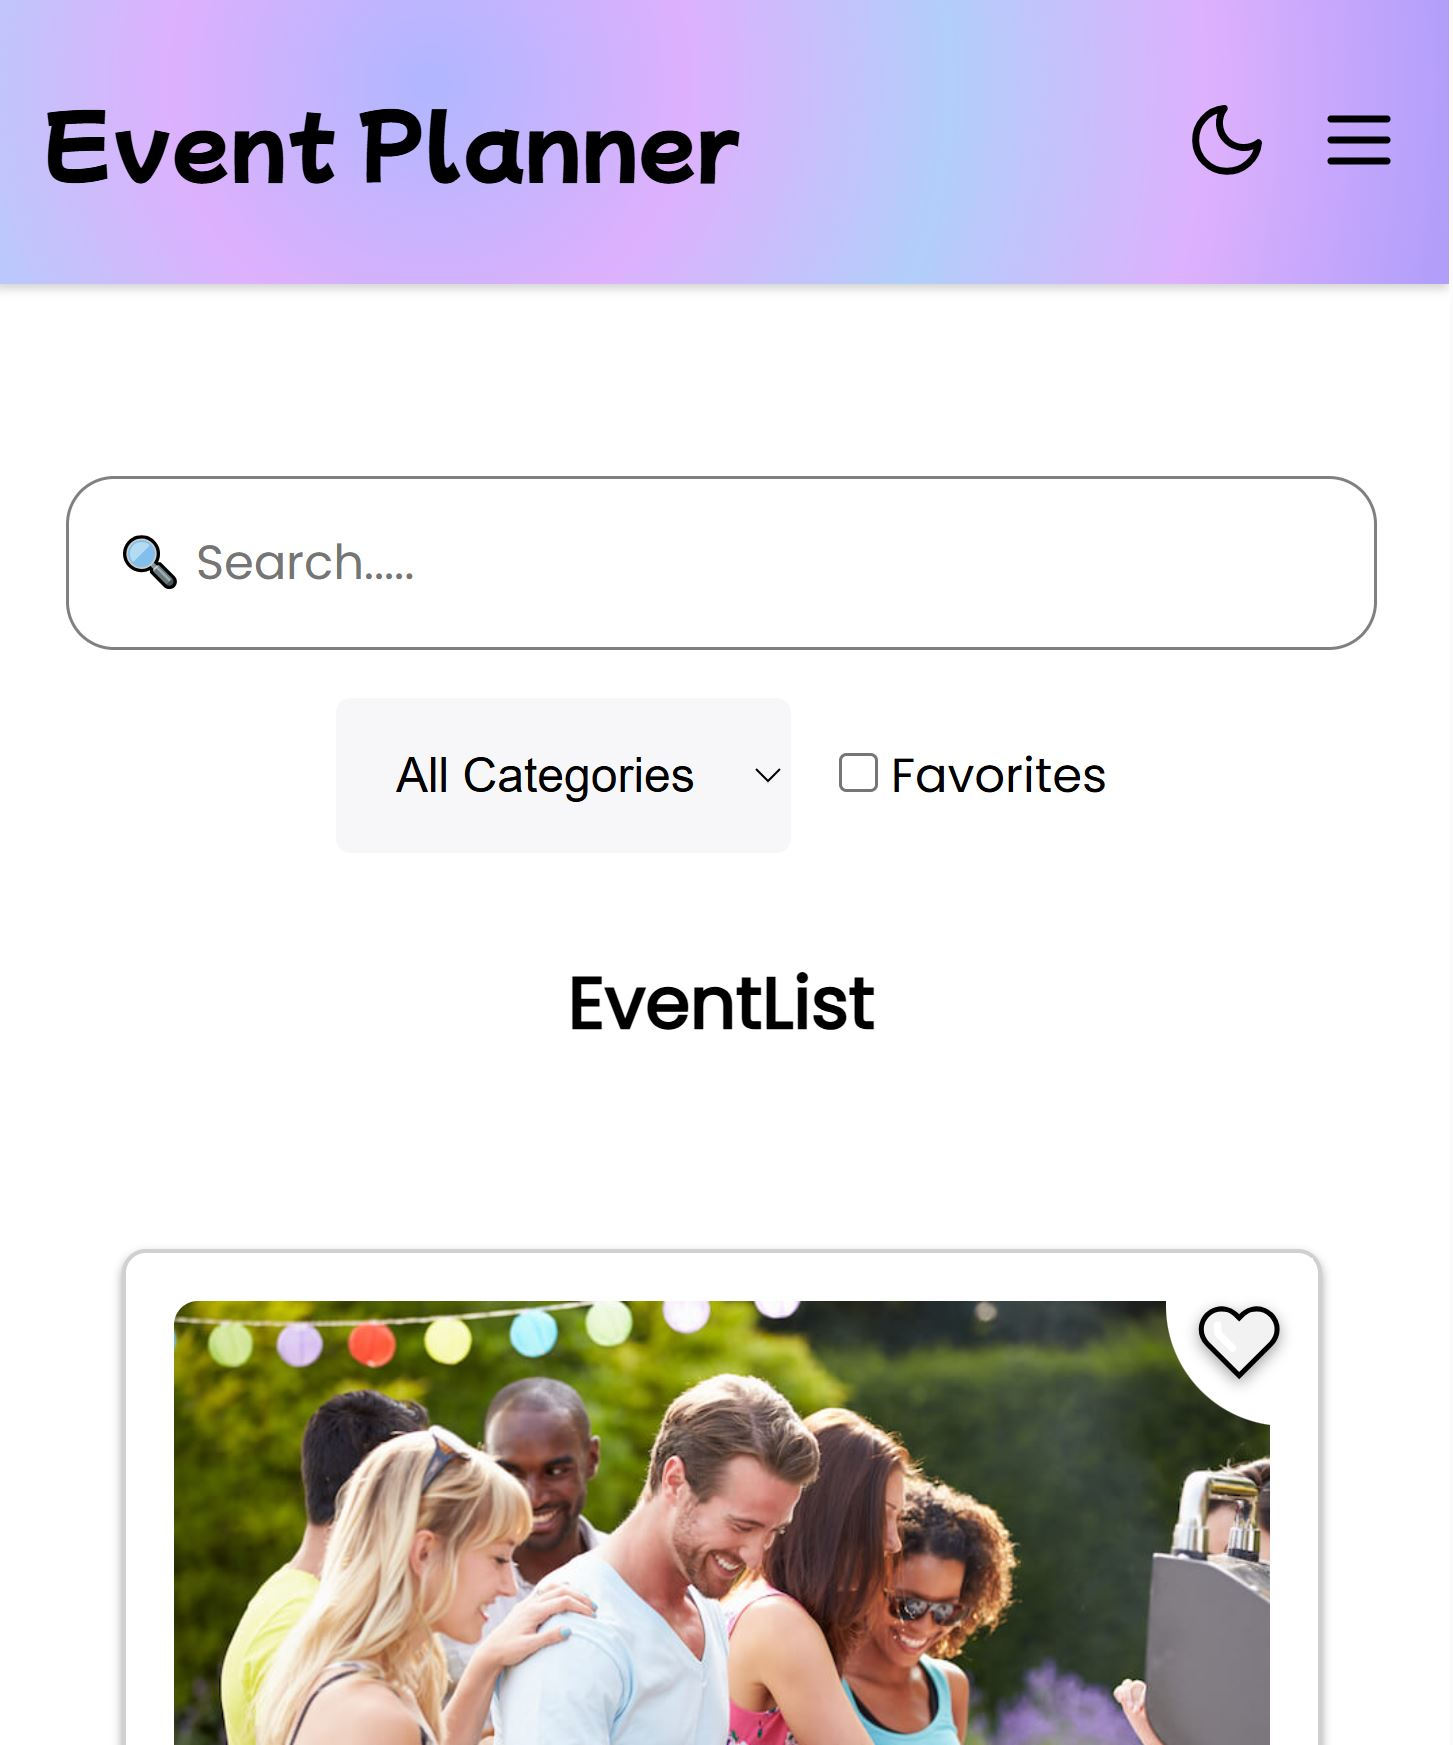
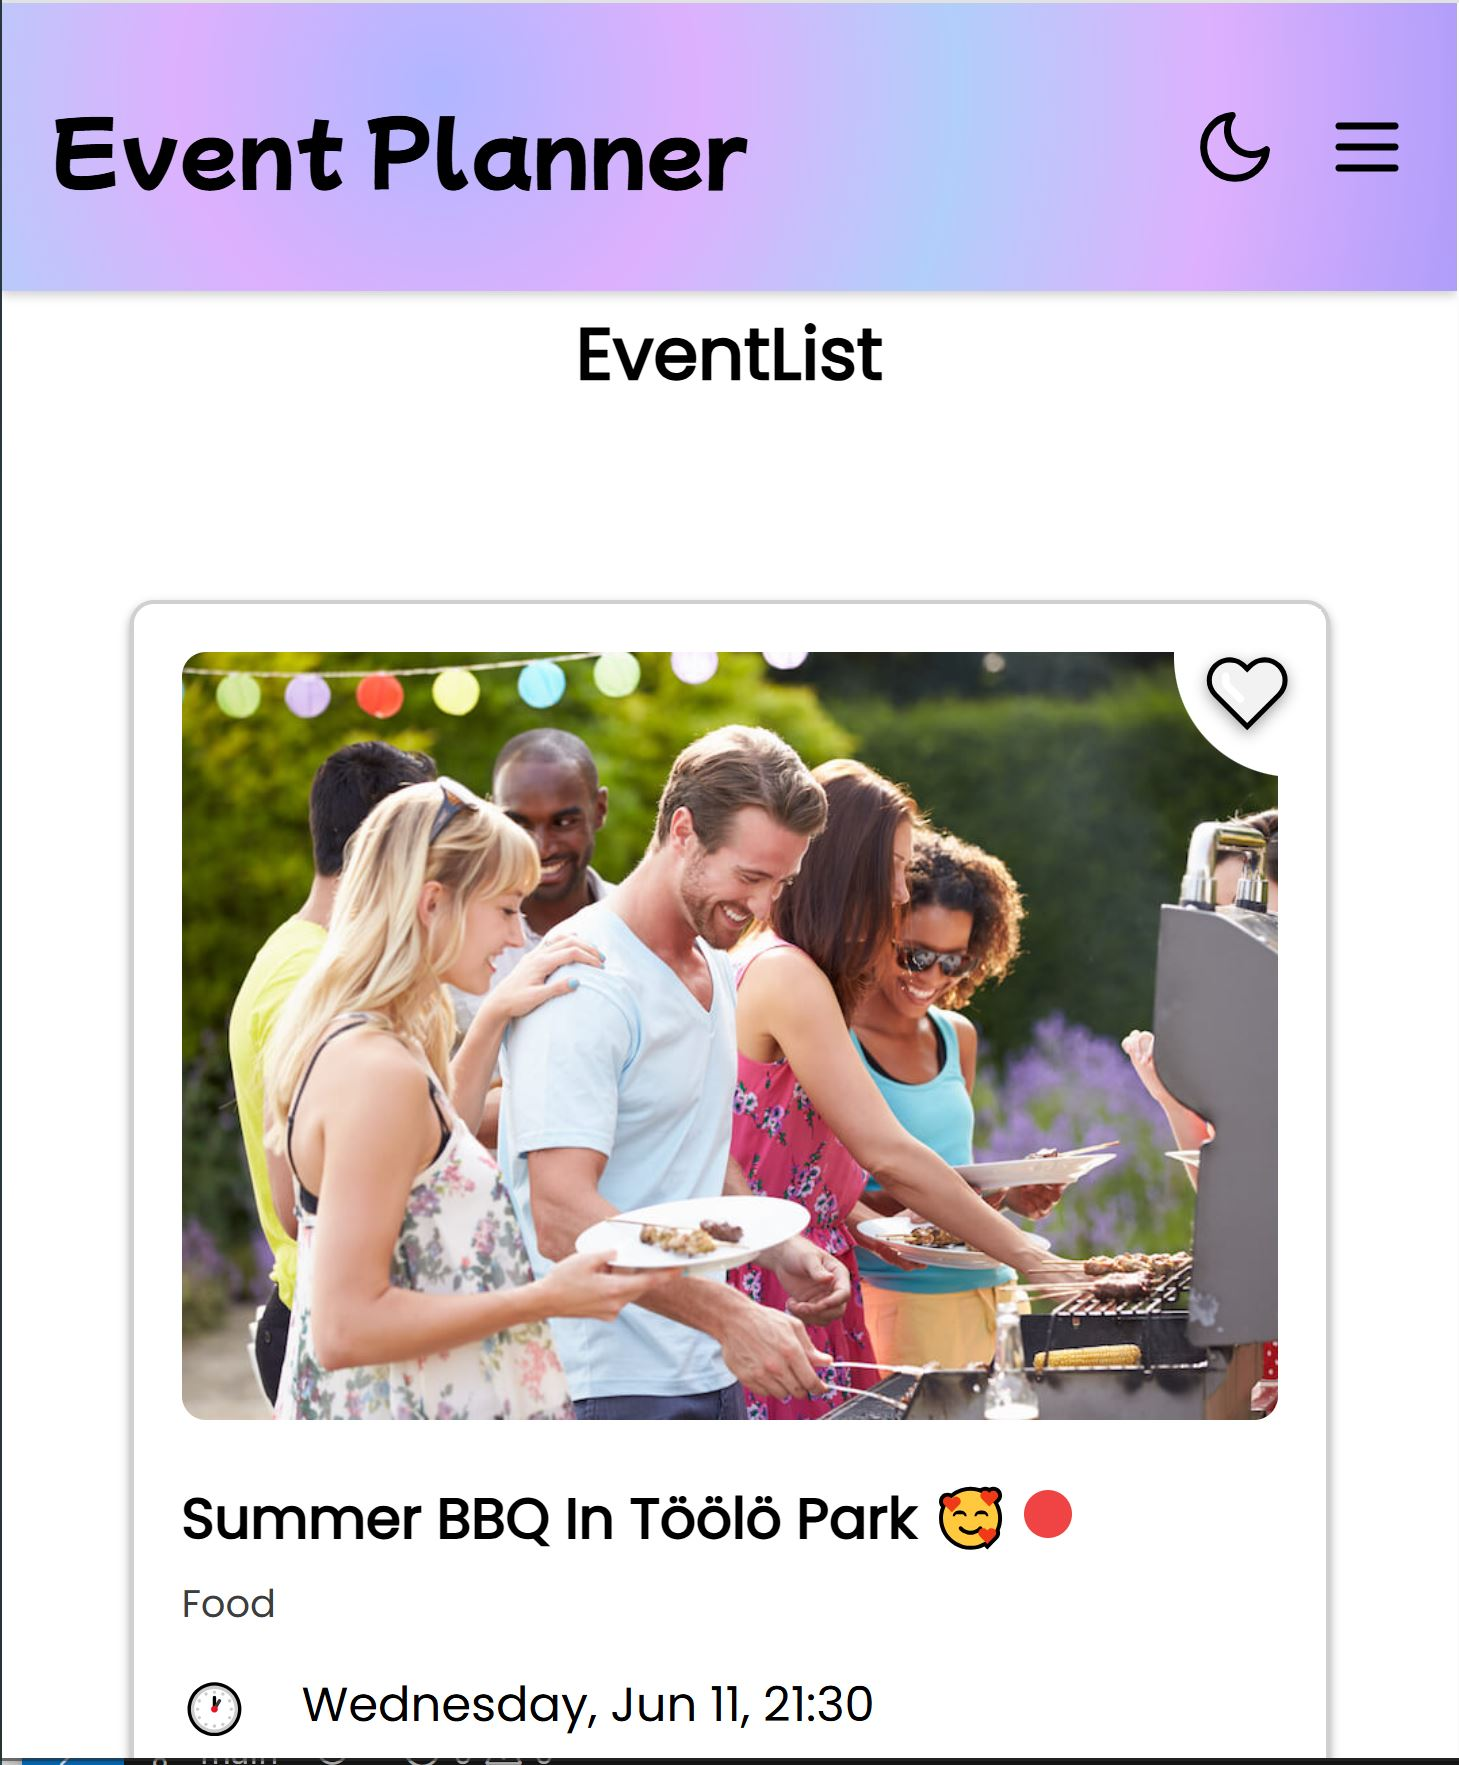
test mobile image

diff --git a/README.md b/README.md
@@ -81,4 +81,5 @@ This project was created as part of a web development learning journey to practi
 
 ### Mobile version
 
-<img src="frontend/public/screenshots/mobile.jpg" alt="Mobile" width="50%"/>
+![mobile](frontend/public/screenshots/mobile.jpg)
+<img src="frontend/public/screenshots/mobile.jpg" alt="Mobile" width="300"/>
